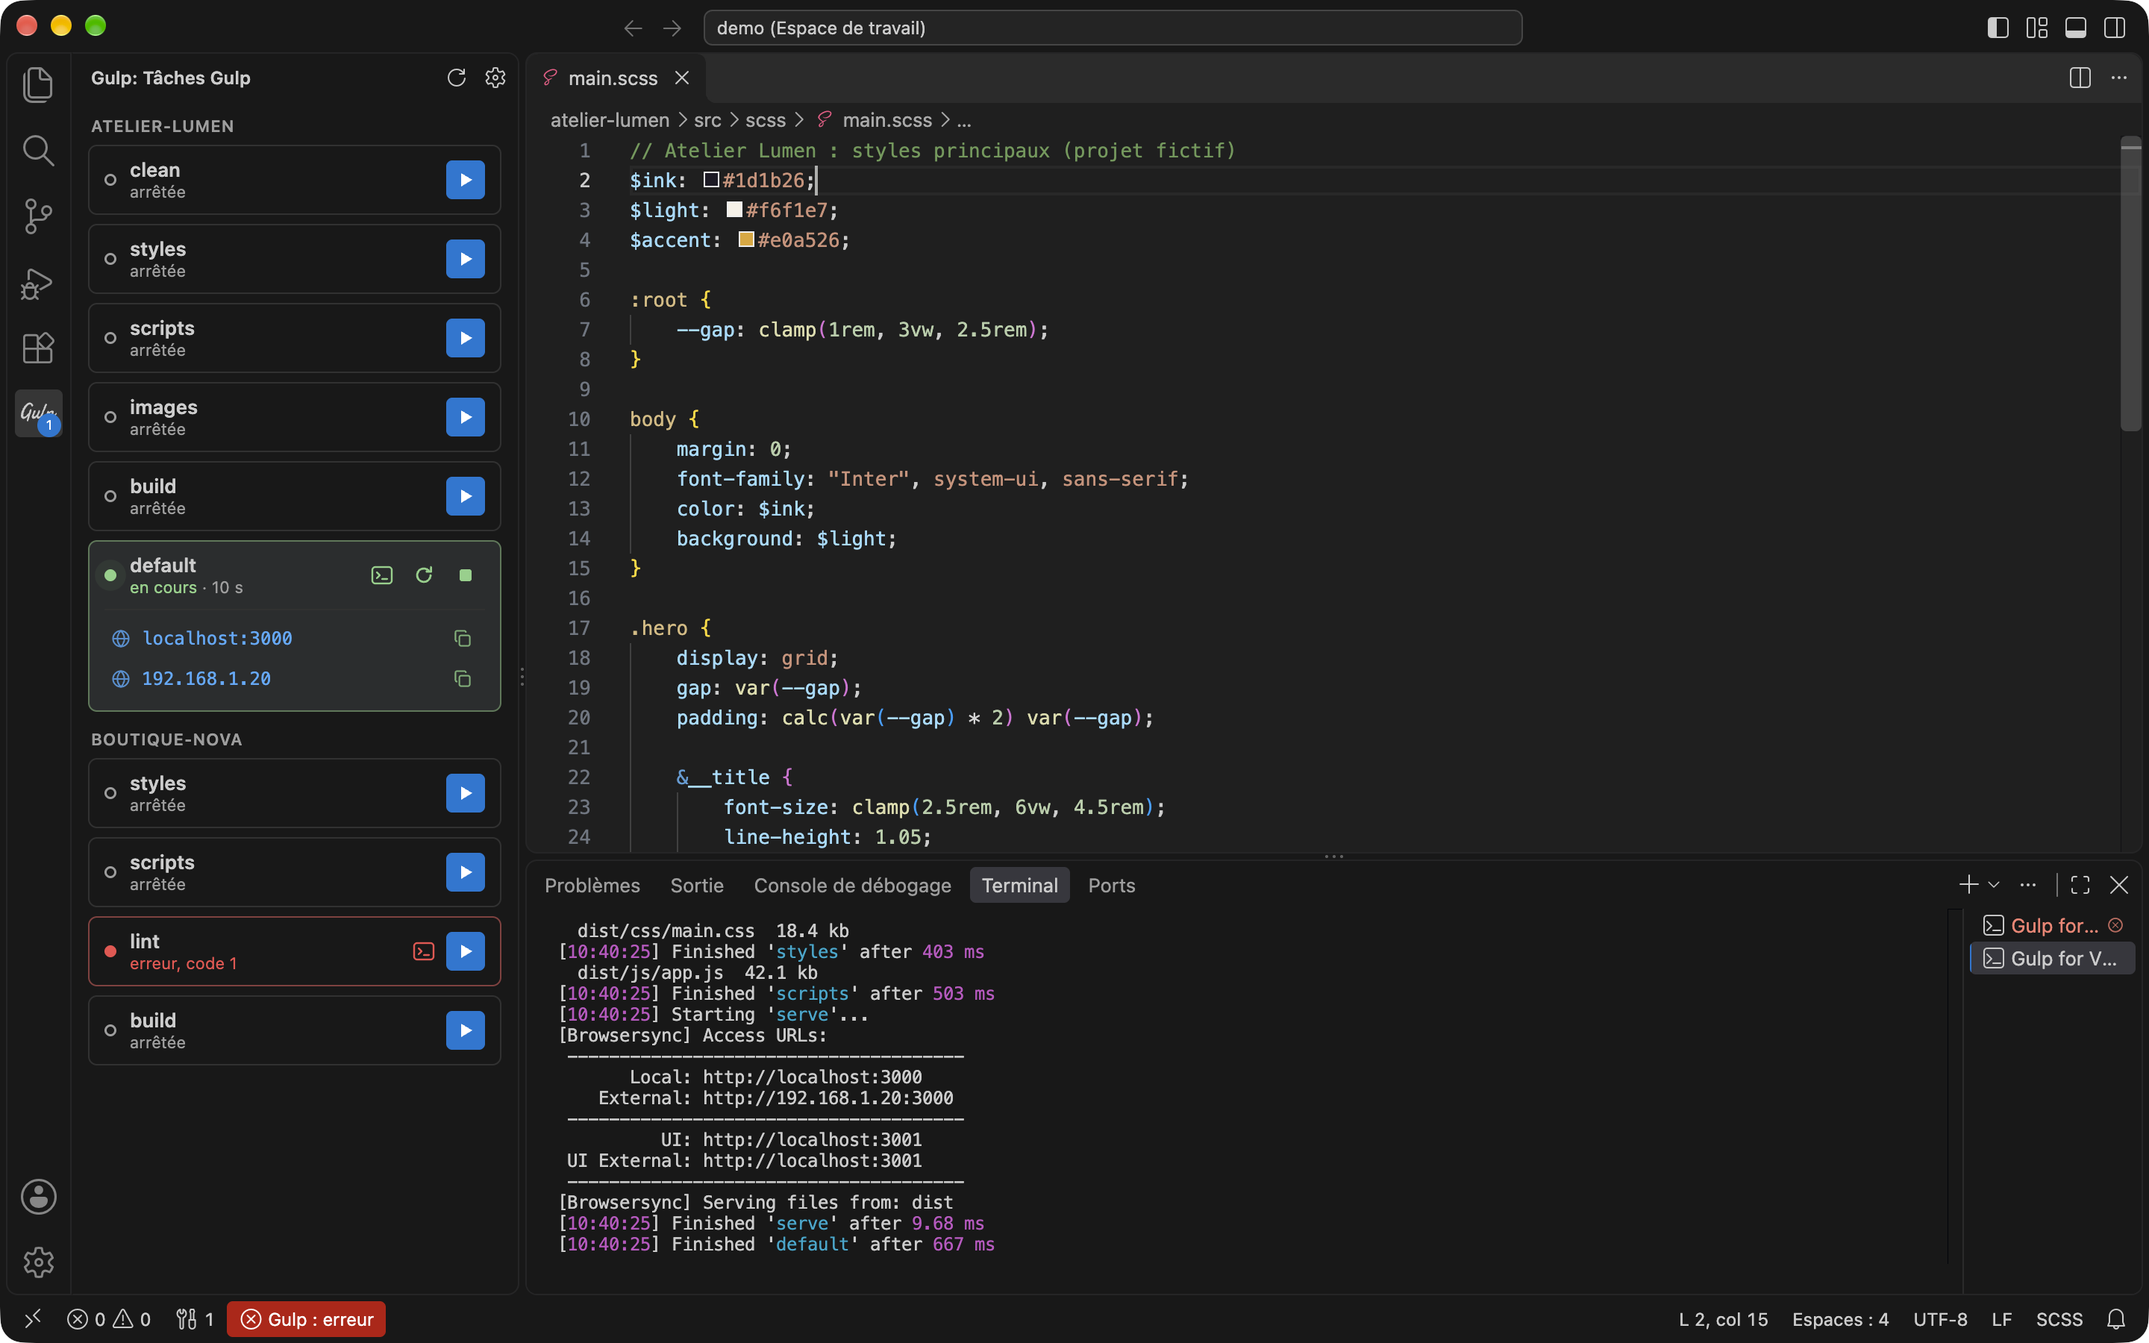
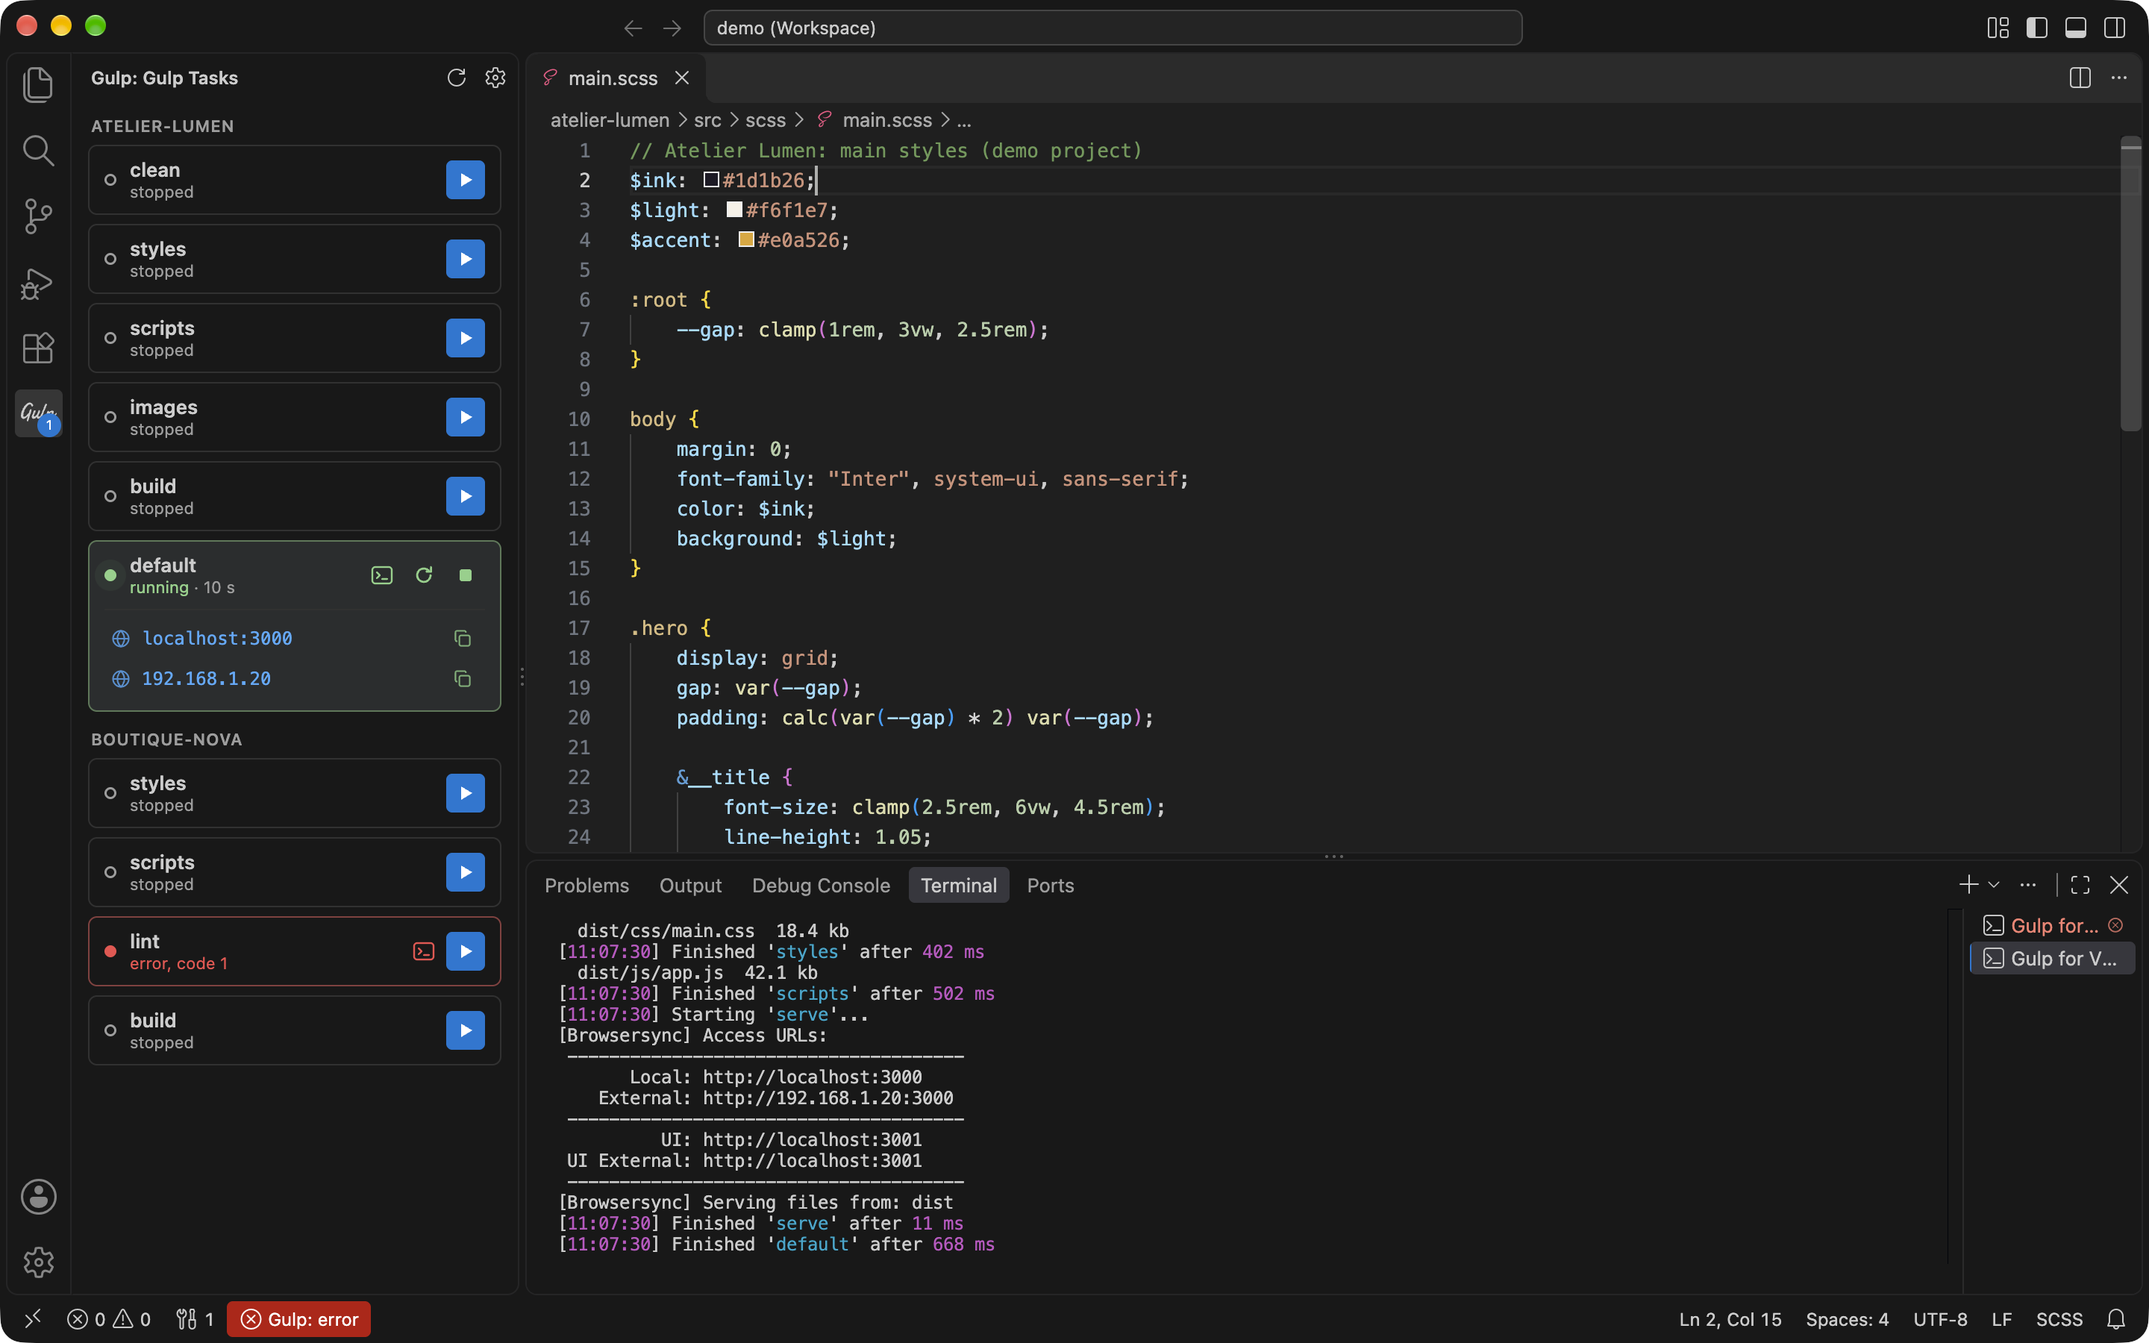
Version anglaise de l'extension, français selon la langue de VS Code (0.4.0)

diff --git a/media/view.js b/media/view.js
@@ -2,6 +2,8 @@
     const vscode = acquireVsCodeApi();
     const app = document.getElementById("app");
     let groups = [];
+    const strings = JSON.parse(app.dataset.strings || "{}");
+    const t = (key, ...args) => (strings[key] || key).replace(/\{(\d+)\}/g, (m, i) => args[i]);
 
     const ICONS = {
         play: '<path d="M5 3.5v9l7.5-4.5z" fill="currentColor"/>',
@@ -55,27 +57,27 @@
 
     function statusOf(task) {
         if (task.status === "running" && task.hasError) {
-            return { kind: "warning", text: "erreur de compilation" };
+            return { kind: "warning", text: t("compileError") };
         }
         if (task.status === "running") {
-            return { kind: "running", text: "en cours" };
+            return { kind: "running", text: t("running") };
         }
         if (task.status === "error") {
-            return { kind: "error", text: `erreur, code ${task.exitCode}` };
+            return { kind: "error", text: t("errorCode", task.exitCode) };
         }
-        return { kind: "idle", text: "arrêtée" };
+        return { kind: "idle", text: t("stopped") };
     }
 
     function urlRow(url) {
         const row = el("div", "url");
-        row.title = `Ouvrir ${url.url}`;
+        row.title = t("open", url.url);
         row.addEventListener("click", (e) => {
             e.stopPropagation();
             vscode.postMessage({ type: "openUrl", url: url.url });
         });
         row.appendChild(icon("globe"));
         row.appendChild(el("span", "url-address", url.url.replace(/^https?:\/\//, "").replace(/\/$/, "")));
-        row.appendChild(button("copy", "Copier l'adresse", () => vscode.postMessage({ type: "copyUrl", url: url.url }), "url-copy"));
+        row.appendChild(button("copy", t("copy"), () => vscode.postMessage({ type: "copyUrl", url: url.url }), "url-copy"));
         return row;
     }
 
@@ -84,7 +86,7 @@
         const running = task.status === "running";
         const node = el("section", `card is-${status.kind}`);
         node.tabIndex = 0;
-        node.title = running ? "Clic : afficher le terminal" : "Double clic : lancer la tâche";
+        node.title = running ? t("clickTerminal") : t("doubleClickStart");
         node.addEventListener("click", () => send("open", group, task));
         node.addEventListener("keydown", (e) => {
             if (e.key === "Enter") {
@@ -107,14 +109,14 @@
 
         const actions = el("div", "actions");
         if (running) {
-            actions.appendChild(button("terminal", "Afficher le terminal", () => send("terminal", group, task)));
-            actions.appendChild(button("restart", "Relancer", () => send("restart", group, task)));
-            actions.appendChild(button("stop", "Arrêter", () => send("stop", group, task), "danger"));
+            actions.appendChild(button("terminal", t("showTerminal"), () => send("terminal", group, task)));
+            actions.appendChild(button("restart", t("restart"), () => send("restart", group, task)));
+            actions.appendChild(button("stop", t("stop"), () => send("stop", group, task), "danger"));
         } else {
             if (task.status === "error") {
-                actions.appendChild(button("terminal", "Afficher le terminal", () => send("terminal", group, task)));
+                actions.appendChild(button("terminal", t("showTerminal"), () => send("terminal", group, task)));
             }
-            actions.appendChild(button("play", "Lancer", () => send("start", group, task), "primary"));
+            actions.appendChild(button("play", t("start"), () => send("start", group, task), "primary"));
         }
         head.appendChild(actions);
         node.appendChild(head);
@@ -135,10 +137,10 @@
         app.textContent = "";
         if (!groups.length) {
             const empty = el("div", "empty");
-            empty.appendChild(el("p", "", "Aucun gulpfile détecté dans ce dossier."));
+            empty.appendChild(el("p", "", t("empty")));
             const refresh = el("button", "text-button");
             refresh.appendChild(icon("refresh"));
-            refresh.appendChild(el("span", "", "Rafraîchir"));
+            refresh.appendChild(el("span", "", t("refresh")));
             refresh.addEventListener("click", () => vscode.postMessage({ type: "refresh" }));
             empty.appendChild(refresh);
             app.appendChild(empty);

diff --git a/src/view.js b/src/view.js
@@ -50,10 +50,10 @@ class TaskView {
         const running = this.runner.runningTasks();
         if (errors.length) {
             const names = errors.map((s) => s.name).join(", ");
-            this.view.badge = { value: errors.length, tooltip: `Gulp en erreur : ${names}` };
+            this.view.badge = { value: errors.length, tooltip: vscode.l10n.t("Gulp failed: {0}", names) };
         } else if (running.length) {
             const names = running.map((s) => s.name).join(", ");
-            this.view.badge = { value: running.length, tooltip: `Gulp en cours : ${names}` };
+            this.view.badge = { value: running.length, tooltip: vscode.l10n.t("Gulp running: {0}", names) };
         } else {
             this.view.badge = undefined;
         }
@@ -97,7 +97,7 @@ class TaskView {
         }
         if (message.type === "copyUrl") {
             vscode.env.clipboard.writeText(message.url);
-            vscode.window.setStatusBarMessage(`Copié : ${message.url}`, 2000);
+            vscode.window.setStatusBarMessage(vscode.l10n.t("Copied: {0}", message.url), 2000);
             return;
         }
         const group = this.groups.find((g) => g.folder.uri.fsPath === message.path);
@@ -138,12 +138,33 @@ class TaskView {
         }
     }
 
+    // Libellés de la webview, traduits côté extension (vscode.l10n n'existe pas dans la webview).
+    _strings() {
+        const t = vscode.l10n.t;
+        return {
+            compileError: t("compilation error"),
+            running: t("running"),
+            errorCode: t("error, code {0}"),
+            stopped: t("stopped"),
+            open: t("Open {0}"),
+            copy: t("Copy address"),
+            clickTerminal: t("Click: show terminal"),
+            doubleClickStart: t("Double-click: start task"),
+            showTerminal: t("Show terminal"),
+            restart: t("Restart"),
+            stop: t("Stop"),
+            start: t("Start"),
+            empty: t("No gulpfile found in this folder."),
+            refresh: t("Refresh"),
+        };
+    }
+
     _html(webview, media) {
         const nonce = crypto.randomBytes(16).toString("base64");
         const css = webview.asWebviewUri(vscode.Uri.joinPath(media, "view.css"));
         const js = webview.asWebviewUri(vscode.Uri.joinPath(media, "view.js"));
         return `<!DOCTYPE html>
-<html lang="fr">
+<html lang="${vscode.env.language}">
 <head>
 <meta charset="UTF-8">
 <meta http-equiv="Content-Security-Policy" content="default-src 'none'; style-src ${webview.cspSource}; script-src 'nonce-${nonce}';">
@@ -151,11 +172,15 @@ class TaskView {
 <link rel="stylesheet" href="${css}">
 </head>
 <body>
-<main id="app"></main>
+<main id="app" data-strings="${escapeHtml(JSON.stringify(this._strings()))}"></main>
 <script nonce="${nonce}" src="${js}"></script>
 </body>
 </html>`;
     }
+}
+
+function escapeHtml(text) {
+    return text.replace(/&/g, "&amp;").replace(/"/g, "&quot;").replace(/</g, "&lt;");
 }
 
 module.exports = { TaskView };

diff --git a/src/status.js b/src/status.js
@@ -21,21 +21,25 @@ class StatusBar {
 
         if (errors.length) {
             const compile = errors.some((s) => s.status === "running");
-            this.item.text = compile ? `$(error) Gulp : erreur de compilation` : `$(error) Gulp : erreur`;
+            this.item.text = `$(error) ${compile ? vscode.l10n.t("Gulp: compilation error") : vscode.l10n.t("Gulp: error")}`;
             this.item.tooltip = errors
-                .map((s) => (s.status === "running" ? `${s.name} : ${s.lastError || "erreur de compilation"}` : `${s.name} (code ${s.exitCode})`))
+                .map((s) =>
+                    s.status === "running"
+                        ? vscode.l10n.t("{0}: {1}", s.name, s.lastError || vscode.l10n.t("compilation error"))
+                        : vscode.l10n.t("{0} (code {1})", s.name, s.exitCode)
+                )
                 .join("\n");
             this.item.color = undefined;
             this.item.backgroundColor = new vscode.ThemeColor("statusBarItem.errorBackground");
         } else if (running.length) {
             const names = running.map((s) => s.name).join(", ");
-            this.item.text = `$(circle-filled) Gulp : ${names}`;
-            this.item.tooltip = "Gulp en cours. Cliquer pour agir (voir le réglage « gulpRunner.statusBarClickAction »).";
+            this.item.text = `$(circle-filled) ${vscode.l10n.t("Gulp: {0}", names)}`;
+            this.item.tooltip = vscode.l10n.t("Gulp is running. Click to act (see the \"gulpRunner.statusBarClickAction\" setting).");
             this.item.color = new vscode.ThemeColor("charts.green");
             this.item.backgroundColor = undefined;
         } else {
             this.item.text = `$(circle-outline) Gulp`;
-            this.item.tooltip = "Aucune tâche Gulp en cours.";
+            this.item.tooltip = vscode.l10n.t("No Gulp task running.");
             this.item.color = undefined;
             this.item.backgroundColor = undefined;
         }

diff --git a/src/extension.js b/src/extension.js
@@ -35,10 +35,10 @@ async function activate(context) {
             const current = config.get("statusBarClickAction");
             const picked = await vscode.window.showQuickPick(
                 [
-                    { label: "Afficher la vue Gulp", value: "view" },
-                    { label: "Afficher ou masquer le terminal de la tâche", value: "terminal" },
-                ].map((entry) => ({ ...entry, description: entry.value === current ? "actuel" : "" })),
-                { title: "Action au clic sur l'indicateur Gulp de la barre d'état" }
+                    { label: vscode.l10n.t("Show the Gulp view"), value: "view" },
+                    { label: vscode.l10n.t("Show or hide the task terminal"), value: "terminal" },
+                ].map((entry) => ({ ...entry, description: entry.value === current ? vscode.l10n.t("current") : "" })),
+                { title: vscode.l10n.t("Action when clicking the Gulp indicator in the status bar") }
             );
             if (picked) {
                 await config.update("statusBarClickAction", picked.value, vscode.ConfigurationTarget.Global);

diff --git a/src/runner.js b/src/runner.js
@@ -182,7 +182,7 @@ class Runner {
     toggleTerminal() {
         const state = this.runningTasks()[0] || this.errorTasks()[0];
         if (!state) {
-            vscode.window.setStatusBarMessage("Aucune tâche Gulp en cours.", 3000);
+            vscode.window.setStatusBarMessage(vscode.l10n.t("No Gulp task running."), 3000);
             return;
         }
         this.showOutput(state.folder, state.name);

diff --git a/demo/atelier-lumen/src/js/app.js b/demo/atelier-lumen/src/js/app.js
@@ -1,4 +1,4 @@
-// Atelier Lumen : scripts (projet fictif)
+// Atelier Lumen: scripts (demo project)
 document.querySelectorAll("[data-reveal]").forEach((node) => {
     new IntersectionObserver(([entry], observer) => {
         if (entry.isIntersecting) {

diff --git a/demo/boutique-nova/src/js/cart.js b/demo/boutique-nova/src/js/cart.js
@@ -1,4 +1,4 @@
-// Boutique Nova : panier (projet fictif)
+// Boutique Nova: cart (demo project)
 export function addToCart(cart, product) {
     const total = cart.reduce((sum, item) => sum + item.price, 0);
     return [...cart, product];

diff --git a/demo/atelier-lumen/src/scss/main.scss b/demo/atelier-lumen/src/scss/main.scss
@@ -1,4 +1,4 @@
-// Atelier Lumen : styles principaux (projet fictif)
+// Atelier Lumen: main styles (demo project)
 $ink: #1d1b26;
 $light: #f6f1e7;
 $accent: #e0a526;

diff --git a/demo/boutique-nova/src/scss/shop.scss b/demo/boutique-nova/src/scss/shop.scss
@@ -1,2 +1,2 @@
-/* Boutique Nova (projet fictif) */
+/* Boutique Nova (demo project) */
 .product { display: grid; gap: 1rem; }

diff --git a/README.md b/README.md
@@ -10,7 +10,7 @@ Your project's Gulp tasks in a dedicated view: start them, stop them, restart th
 
 ![Gulp for VS Code: task view, BrowserSync URLs, terminal and status bar indicator](docs/screenshot.png)
 
-*Screenshot taken on the [demo projects](demo/): `default` is running with BrowserSync, `lint` failed. The extension's interface is in French.*
+*Screenshot taken on the [demo projects](demo/): `default` is running with BrowserSync, `lint` failed.*
 
 ## Features
 
@@ -26,6 +26,7 @@ Your project's Gulp tasks in a dedicated view: start them, stop them, restart th
 - **Status bar**: a green indicator while a task is running, red on error, with details in the tooltip.
 - **Badge on the Gulp icon**: the number of failed tasks, otherwise the number of running tasks.
 - **Automatic detection**: the list updates when a `gulpfile` is created, changed or deleted.
+- **English and French**: the interface follows VS Code's display language.
 
 ## Installation
 
@@ -38,7 +39,7 @@ code --install-extension digital-cover.gulp-for-vscode
 Or from a local package, available in [releases/](releases/):
 
 ```bash
-code --install-extension releases/gulp-for-vscode-0.3.6.vsix
+code --install-extension releases/gulp-for-vscode-0.4.0.vsix
 ```
 
 ## Usage
@@ -64,8 +65,8 @@ The buttons at the top of the view refresh the task list and set the status bar 
 
 | Command | Description |
 | --- | --- |
-| `Gulp : rafraîchir les tâches` | Runs task detection again |
-| `Gulp : action au clic sur la barre d'état` | Chooses what clicking the indicator does |
+| `Gulp: Refresh Tasks` | Runs task detection again |
+| `Gulp: Status Bar Click Action` | Chooses what clicking the indicator does |
 
 ## Requirements
 
@@ -90,6 +91,7 @@ src/
   view.js        sidebar webview
   status.js      status bar indicator
 media/           icons, CSS and JS for the view
+l10n/            French translations (package.nls.*.json for the manifest)
 demo/            fictional projects for testing and screenshots
 ```
 
@@ -119,7 +121,9 @@ Changes are listed in the [CHANGELOG](CHANGELOG.md).
 
 Les tâches Gulp du projet dans une vue dédiée : les lancer, les arrêter, les relancer, et voir d'un coup d'œil lesquelles tournent, lesquelles ont échoué et à quelle adresse BrowserSync sert le site.
 
-*La capture en haut de page est réalisée sur les [projets de démonstration](demo/) : `default` tourne avec BrowserSync, `lint` a échoué.*
+![Gulp for VS Code : vue des tâches, URLs BrowserSync, terminal et indicateur de la barre d'état](docs/screenshot-fr.png)
+
+*Capture réalisée sur les [projets de démonstration](demo/) : `default` tourne avec BrowserSync, `lint` a échoué.*
 
 ## Fonctionnalités
 
@@ -135,6 +139,7 @@ Les tâches Gulp du projet dans une vue dédiée : les lancer, les arrêter, les
 - **Barre d'état** : un indicateur vert quand une tâche tourne, rouge en cas d'erreur, avec le détail en infobulle.
 - **Pastille sur l'icône Gulp** : le nombre de tâches en erreur, sinon le nombre de tâches en cours.
 - **Détection automatique** : la liste se met à jour quand un `gulpfile` est créé, modifié ou supprimé.
+- **Français et anglais** : l'interface suit la langue d'affichage de VS Code.
 
 ## Installation
 
@@ -147,7 +152,7 @@ code --install-extension digital-cover.gulp-for-vscode
 Ou depuis un paquet local, fourni dans [releases/](releases/) :
 
 ```bash
-code --install-extension releases/gulp-for-vscode-0.3.6.vsix
+code --install-extension releases/gulp-for-vscode-0.4.0.vsix
 ```
 
 ## Utilisation
@@ -173,8 +178,8 @@ Les boutons en haut de la vue rafraîchissent la liste des tâches et règlent l
 
 | Commande | Description |
 | --- | --- |
-| `Gulp : rafraîchir les tâches` | Relance la détection des tâches |
-| `Gulp : action au clic sur la barre d'état` | Choisit l'action du clic sur l'indicateur |
+| `Gulp: Rafraîchir les tâches` | Relance la détection des tâches |
+| `Gulp: Action au clic sur la barre d'état` | Choisit l'action du clic sur l'indicateur |
 
 ## Prérequis
 
@@ -199,6 +204,7 @@ src/
   view.js        vue webview de la barre latérale
   status.js      indicateur de la barre d'état
 media/           icônes, CSS et JS de la vue
+l10n/            traductions françaises (package.nls.*.json pour le manifeste)
 demo/            projets fictifs pour les tests et les captures
 ```
 

diff --git a/CHANGELOG.md b/CHANGELOG.md
@@ -1,5 +1,10 @@
 # Changelog
 
+## 0.4.0
+
+- Version anglaise de l'extension : l'interface suit la langue d'affichage de VS Code (anglais par défaut, français).
+- Captures du README en anglais et en français.
+
 ## 0.3.6
 
 - README en anglais, suivi de la version française.
